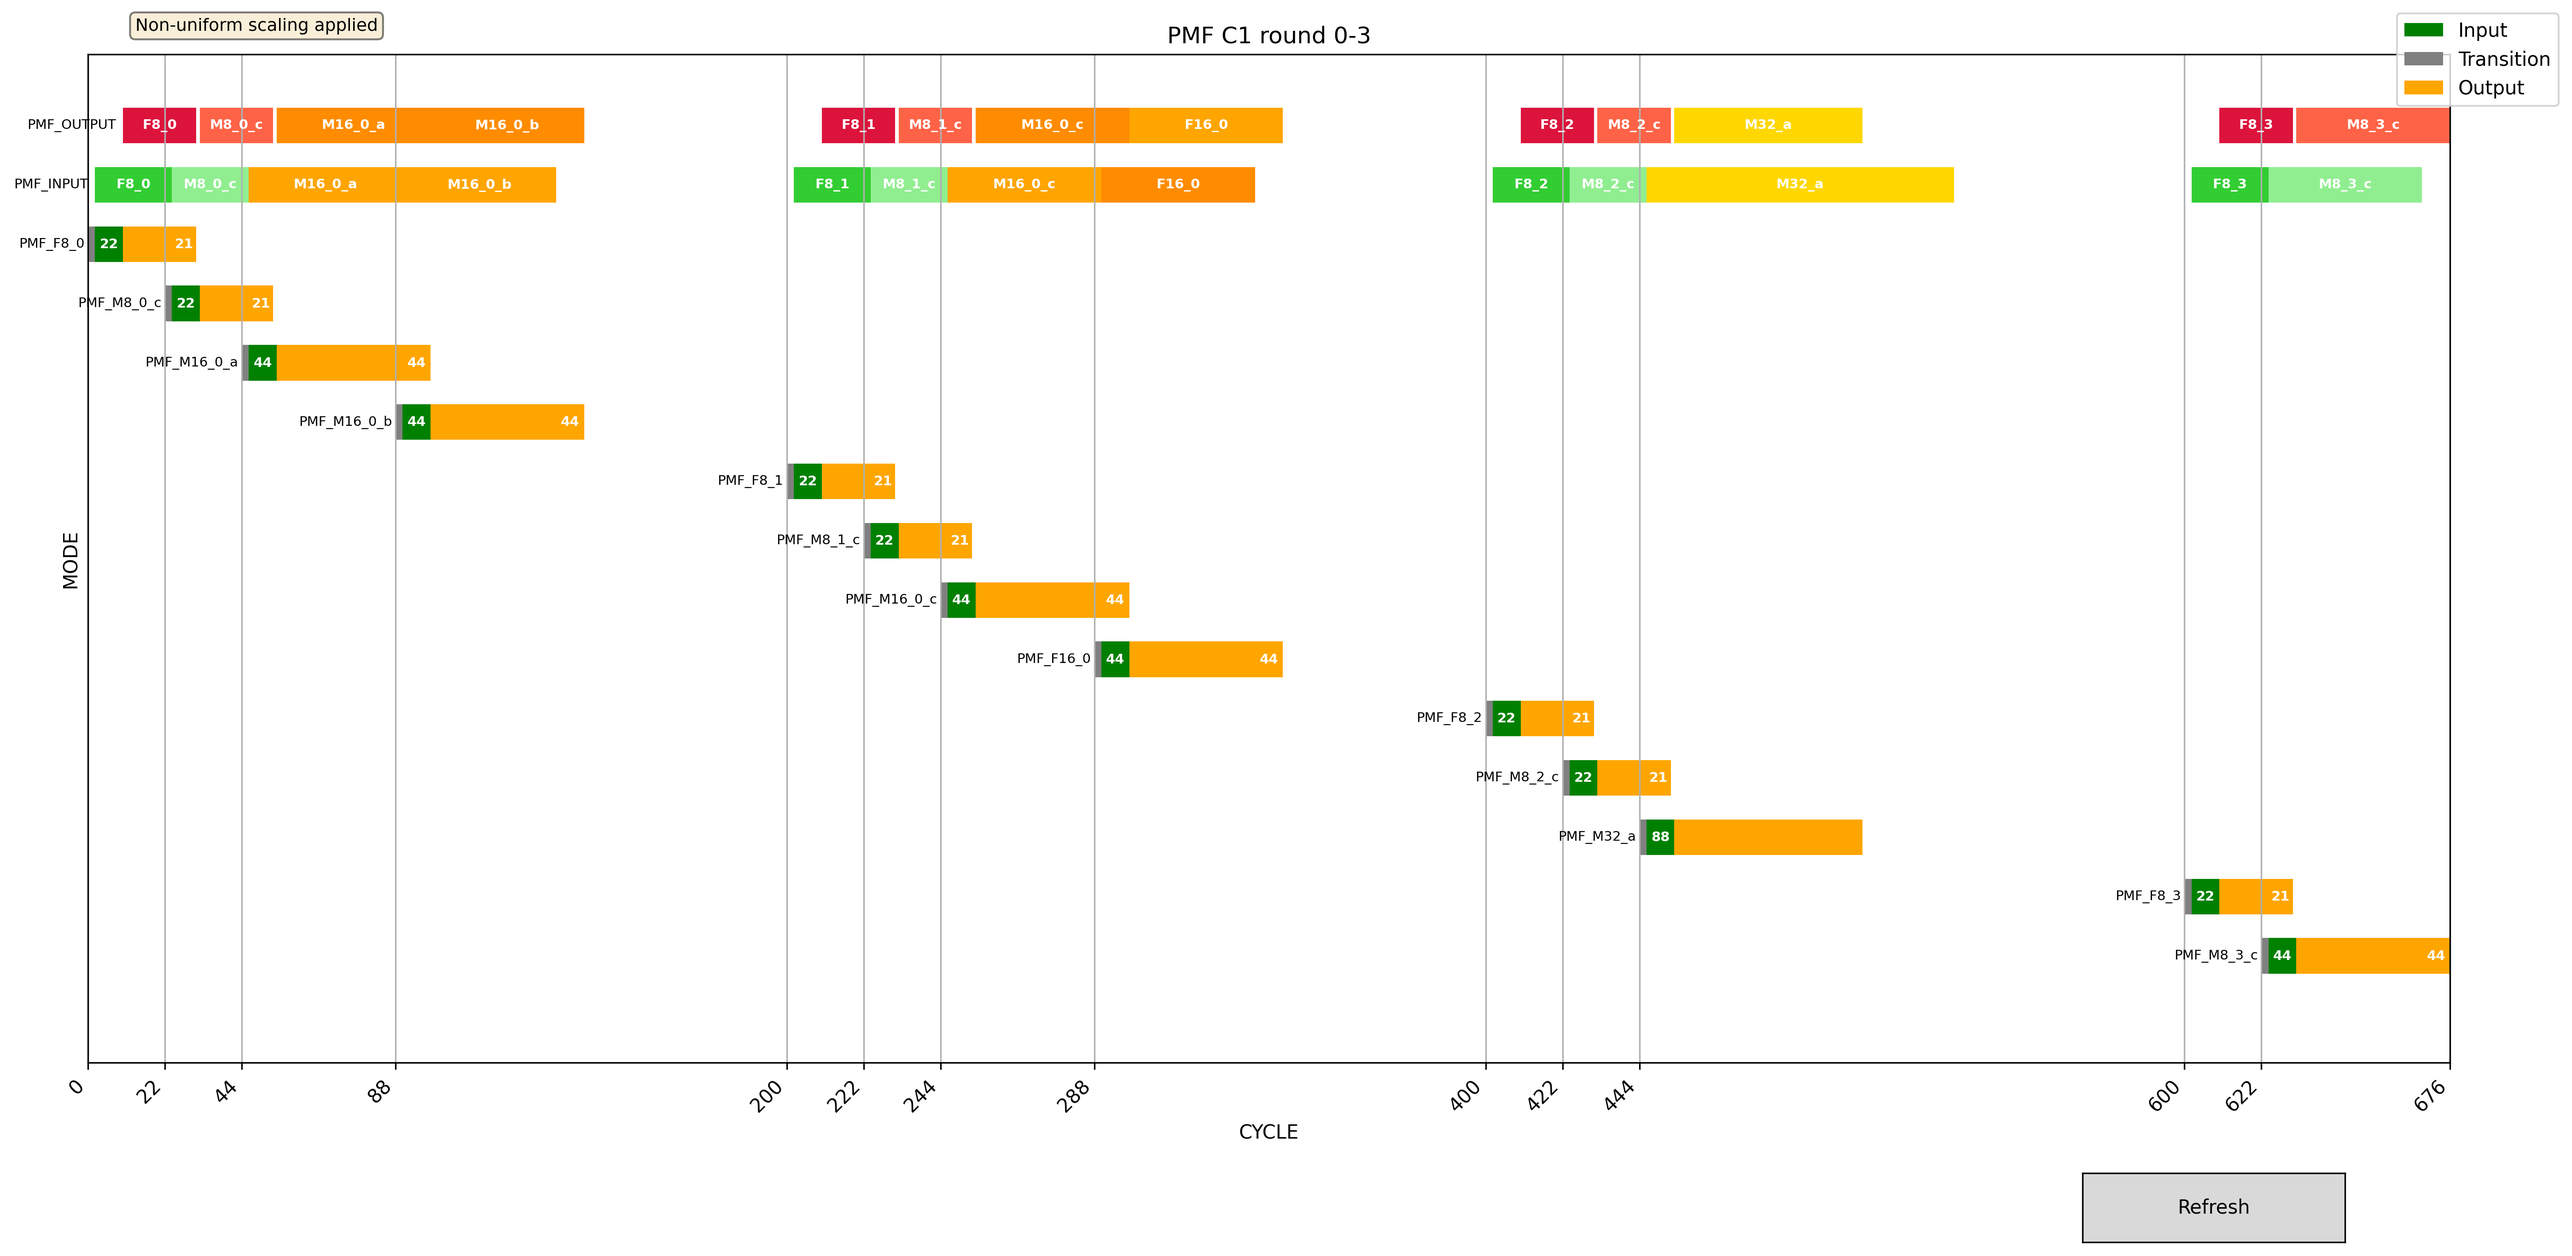
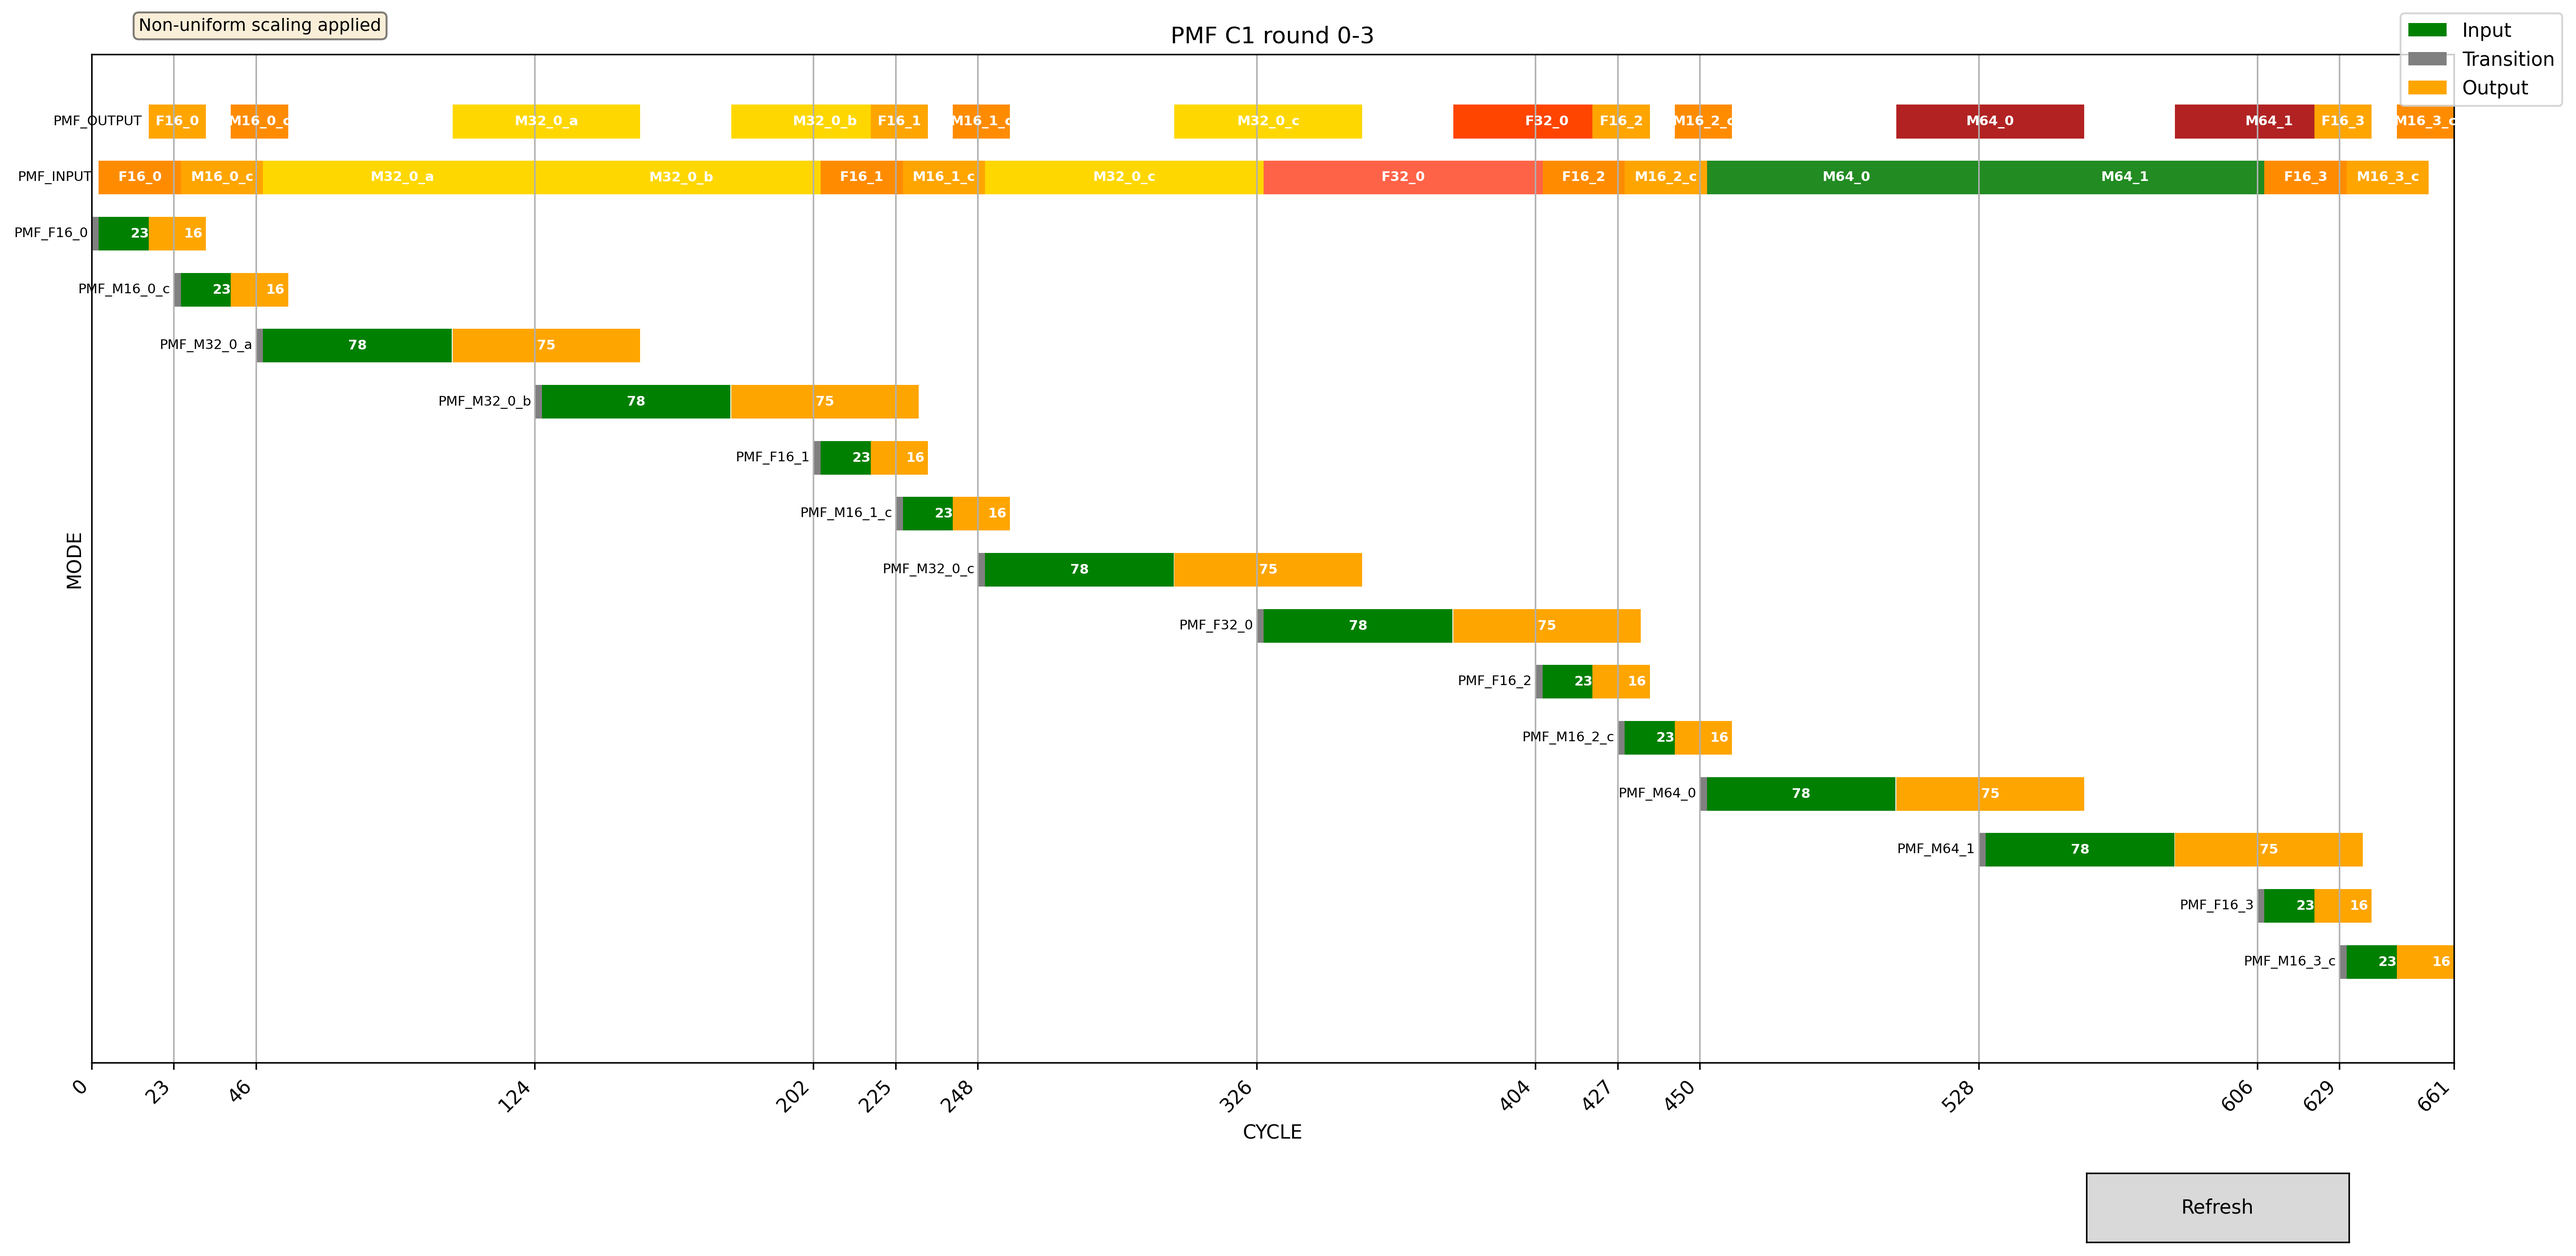
save

Changed region(s): [[0.0, 0.0623, 0.9656, 0.779], [0.0311, 0.0, 0.1557, 0.0312], [0.4672, 0.8724, 0.4984, 0.9036]]

diff --git a/gantt_scheduler.py b/gantt_scheduler.py
@@ -124,12 +124,7 @@ def plot_gantt(tasks, config=None):
         plt.figure(1)
     plt.clf()  # Clear the figure
 
-    # Draw each task with non-uniform scaling for bar widths only (positions use original)
-    threshold = 50
-    scale_long = 0.1
-
-    def scale_duration(duration):
-        return duration if duration <= threshold else threshold + (duration - threshold) * scale_long
+    # Draw each task with original durations (no scaling)
 
     # Y positions for PMF summaries
     pmf_input_y = len(tasks) + 0.3
@@ -194,55 +189,51 @@ def plot_gantt(tasks, config=None):
         if output_begin is not None and output_end is not None:
             output_duration = output_end - output_begin
             if output_duration > 0:
-                scaled_output = scale_duration(output_duration)
+                # Use original duration for summary bars, not scaled
                 color = get_pmf_output_color(task['mode'])
-                plt.barh(pmf_output_y, scaled_output, left=output_begin, height=0.6, color=color)
-                plt.text(output_begin + scaled_output / 2, pmf_output_y, suffix, ha='center', va='center', fontsize=7, color='white', weight='bold')
+                plt.barh(pmf_output_y, output_duration, left=output_begin, height=0.6, color=color)
+                plt.text(output_begin + output_duration / 2, pmf_output_y, suffix, ha='center', va='center', fontsize=7, color='white', weight='bold')
 
     for i, task in enumerate(reversed(tasks)):
         bar_y = i + 0.3
         # Pipe segment (gray)
         if task['pipe_begin'] is not None and task['pipe_end'] is not None:
             pipe_duration = task['pipe_end'] - task['pipe_begin']
-            scaled_pipe = scale_duration(pipe_duration)
-            if scaled_pipe > 0:
-                plt.barh(bar_y, scaled_pipe, left=task['pipe_begin'], height=0.6, color='gray')
+            if pipe_duration > 0:
+                plt.barh(bar_y, pipe_duration, left=task['pipe_begin'], height=0.6, color='gray')
                 # Removed text display for pipe segment
         # Input segment with color based on mode
         if task['input_begin'] is not None and task['input_end'] is not None:
             input_duration = task['input_end'] - task['input_begin']
-            scaled_input = scale_duration(input_duration)
-            if scaled_input > 0:
+            if input_duration > 0:
                 color = 'green'
-                plt.barh(bar_y, scaled_input, left=task['input_begin'], height=0.6, color=color)
+                plt.barh(bar_y, input_duration, left=task['input_begin'], height=0.6, color=color)
                 # Adjust text position if overlapping with output
-                text_x = task['input_begin'] + scaled_input / 2
+                text_x = task['input_begin'] + input_duration / 2
                 if task['output_begin'] is not None and task['output_end'] is not None and task['input_end'] > task['output_begin']:
                     # Overlapping, place text at the left part of input segment
                     overlap_start = task['output_begin']
-                    input_center = task['input_begin'] + scaled_input / 2
+                    input_center = task['input_begin'] + input_duration / 2
                     if input_center >= overlap_start:
                         text_x = task['input_begin'] + (overlap_start - task['input_begin']) / 2
                 plt.text(text_x, bar_y, f'{input_duration}', ha='center', va='center', fontsize=7, color='white', weight='bold')
         # Transition (gray)
         if task['input_end'] is not None and task['output_begin'] is not None:
             gray_duration = task['output_begin'] - task['input_end']
-            scaled_gray = scale_duration(gray_duration)
-            if scaled_gray > 0:
-                plt.barh(bar_y, scaled_gray, left=task['input_end'], height=0.6, color='gray')
-                plt.text(task['input_end'] + scaled_gray / 2, bar_y, f'{gray_duration}', ha='center', va='center', fontsize=7, color='white', weight='bold')
+            if gray_duration > 0:
+                plt.barh(bar_y, gray_duration, left=task['input_end'], height=0.6, color='gray')
+                plt.text(task['input_end'] + gray_duration / 2, bar_y, f'{gray_duration}', ha='center', va='center', fontsize=7, color='white', weight='bold')
         # Output segment (orange)
         if task['output_begin'] is not None and task['output_end'] is not None:
             orange_duration = task['output_end'] - task['output_begin']
-            scaled_orange = scale_duration(orange_duration)
-            if scaled_orange > 0:
-                plt.barh(bar_y, scaled_orange, left=task['output_begin'], height=0.6, color='orange')
+            if orange_duration > 0:
+                plt.barh(bar_y, orange_duration, left=task['output_begin'], height=0.6, color='orange')
                 # Adjust text position if overlapping with input
-                text_x = task['output_begin'] + scaled_orange / 2
+                text_x = task['output_begin'] + orange_duration / 2
                 if task['input_begin'] is not None and task['input_end'] is not None and task['output_begin'] < task['input_end']:
                     # Overlapping, place text at the right part of output segment
                     overlap_end = task['input_end']
-                    output_center = task['output_begin'] + scaled_orange / 2
+                    output_center = task['output_begin'] + orange_duration / 2
                     if output_center <= overlap_end:
                         text_x = overlap_end + (task['output_end'] - overlap_end) / 2
                 plt.text(text_x, bar_y, f'{orange_duration}', ha='center', va='center', fontsize=7, color='white', weight='bold')
@@ -295,8 +286,7 @@ def plot_gantt(tasks, config=None):
     orange_patch = plt.Rectangle((0,0),1,1,fc='orange')
     plt.legend([green_patch, gray_patch, orange_patch], ['Input', 'Transition', 'Output'], loc='upper right', bbox_to_anchor=(1.05, 1.05))
 
-    # Add legend explaining scaling
-    plt.text(0.02, 1.02, 'Non-uniform scaling applied', transform=plt.gca().transAxes, verticalalignment='bottom', fontsize=9, bbox=dict(boxstyle='round', facecolor='wheat', alpha=0.5))
+    # Scaling removed, no legend needed
 
     plt.subplots_adjust(bottom=0.15, left=0.05, right=0.95)  # Adjusted to reduce left margin and add right margin control
 
